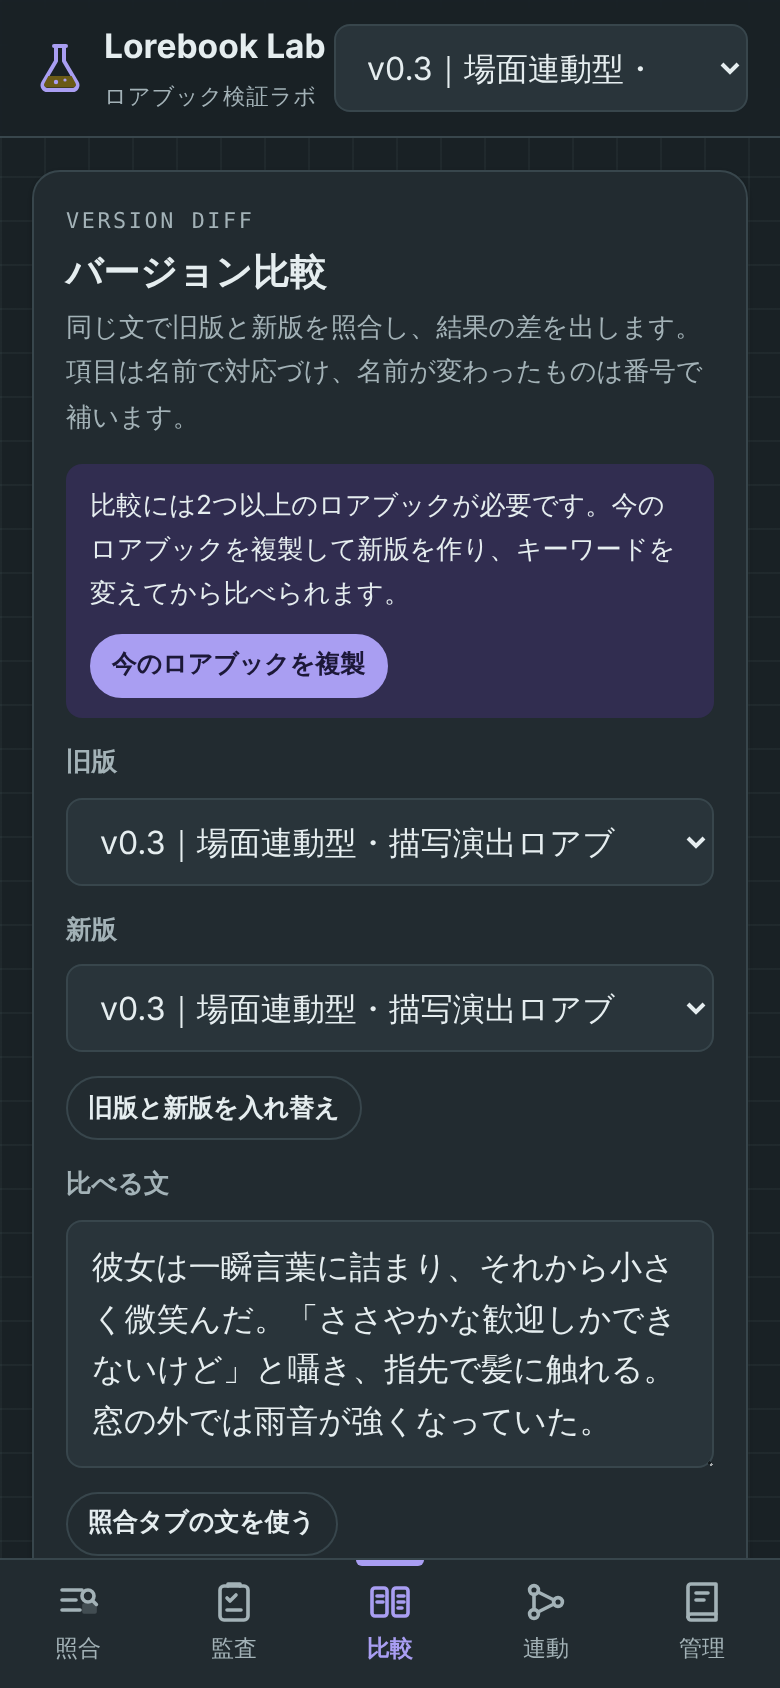
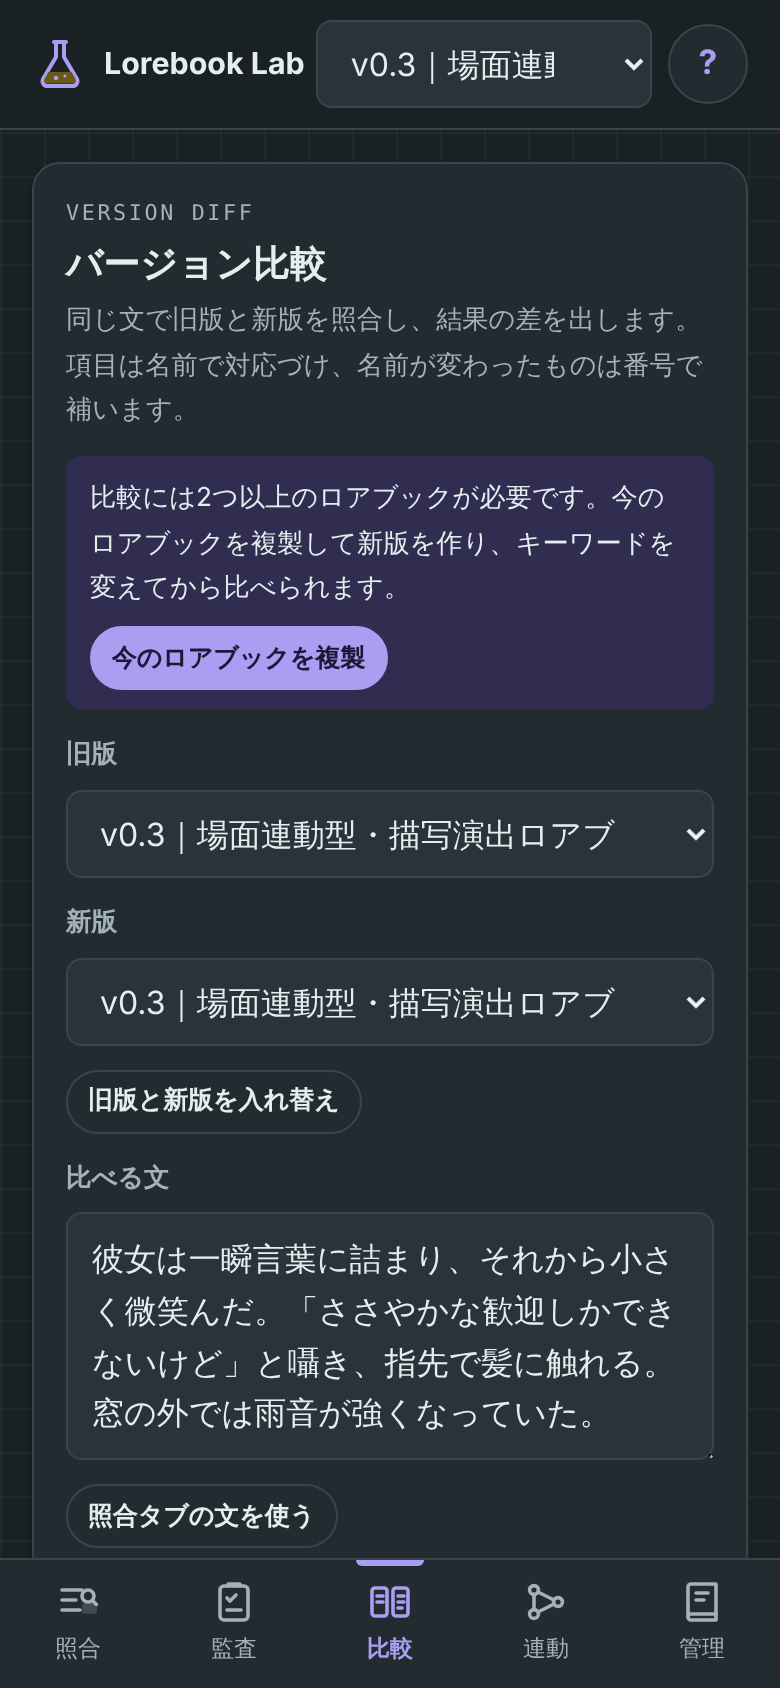
かんたん登録と使い方ガイドを追加
- 項目名・キーワード・本文を入れるだけで登録できるフォーム（新規ロアブック作成も可）
- 初回の「はじめに」案内と、右上「?」の使い方ガイド
- 狭い画面でヘッダーの名前が切れないよう調整

Claude-Session: https://claude.ai/code/session_01H5C1yxNcZhbhaamqsdtTMU

diff --git a/js/app.js b/js/app.js
@@ -36,7 +36,8 @@
       tab: 'sim',
       auditView: 'cases',
       recordFilter: 'all',
-      editingId: null
+      editingId: null,
+      guideSeen: false
     };
   }
 
@@ -293,14 +294,14 @@
 
   function noLorebookPanel() {
     return '<section class="panel"><h2>ロアブックがありません</h2>' +
-      '<p class="hint">管理タブで Markdown か JSON を読み込むか、サンプル（描写演出ロアブック v0.3）を入れてください。</p>' +
-      '<div class="row"><button class="btn primary" data-action="add-sample">サンプルを読み込む</button><button class="btn" data-action="goto-manage">管理タブへ</button></div></section>';
+      '<p class="hint">項目名・キーワード・本文を入れるだけで作れます。Markdown を読み込むこともできます（管理タブ）。</p>' +
+      '<div class="row"><button class="btn primary" data-action="quick-add">項目をかんたん登録</button><button class="btn" data-action="add-sample">サンプルを読み込む</button></div></section>';
   }
 
   /* ================= 照合 ================= */
 
   function viewSim() {
-    view.innerHTML =
+    view.innerHTML = welcomePanel() +
       '<section class="panel">' +
         '<div class="panel-head"><span class="eyebrow">String match</span><h2>文字列一致シミュレーター</h2>' +
         '<p class="hint">登録キーワードとの部分一致だけで判定します。ひらがな・カタカナ、全角・半角、大文字・小文字は変換せず、活用形も補いません。表示されるのは実機の発火状態ではなく「発火候補」です。</p></div>' +
@@ -309,6 +310,7 @@
           '<label class="field"><span class="field-label"><span class="pill ai">AI生成文</span></span><textarea id="sim-ai" placeholder="AIの生成文を貼り付け"></textarea></label>' +
         '</div>' +
         '<div class="row"><button class="btn small" id="sim-sample" type="button">例文を入れる</button><button class="btn small" id="sim-clear" type="button">入力を消す</button>' +
+        '<button class="btn small" type="button" data-action="quick-add">＋項目を登録</button>' +
         '<span class="spacer"></span><button class="btn small" id="sim-missed" type="button">拾い漏れを記録</button></div>' +
       '</section>' +
       '<div id="sim-out" class="list"></div>';
@@ -1033,7 +1035,9 @@
     if (state.editingId && lbById(state.editingId)) return viewEditor(lbById(state.editingId));
     state.editingId = null;
     var cur = activeLb();
-    var html = '<section class="panel"><div class="panel-head"><span class="eyebrow">Lorebooks</span><h2>ロアブック</h2></div><div class="list">';
+    var html = '<section class="panel"><div class="panel-head"><span class="eyebrow">Lorebooks</span><h2>ロアブック</h2>' +
+      '<p class="hint">項目名・キーワード・本文を入れるだけで、新しいロアブックや項目を作れます。</p></div>' +
+      '<div class="row"><button class="btn primary" type="button" data-action="quick-add">＋かんたん登録</button></div><div class="list">';
     if (!state.lorebooks.length) html += '<p class="empty">まだありません。下から読み込むか、サンプルを入れてください。</p>';
     state.lorebooks.forEach(function (l) {
       var warns = P.validate(l.entries);
@@ -1320,6 +1324,141 @@
 
   function cssEsc(s) { return (window.CSS && CSS.escape) ? CSS.escape(s) : String(s).replace(/["\\]/g, '\\$&'); }
 
+  /* ================= かんたん登録 ================= */
+
+  /** 「、」・カンマ・空白で区切ってキーワードにする */
+  function splitQuick(raw) {
+    var seen = [];
+    String(raw || '').split(/[、,，;；\/／|｜\s　]+/).forEach(function (k) {
+      k = k.replace(/^[「『"'“]+|[」』"'”]+$/g, '').trim();
+      if (k && seen.indexOf(k) === -1) seen.push(k);
+    });
+    return seen;
+  }
+
+  function quickAddSheet(preferId) {
+    var cur = preferId ? lbById(preferId) : activeLb();
+    var opts = '<option value="__new">新しいロアブックを作る</option>' + state.lorebooks.map(function (l) {
+      return '<option value="' + esc(l.id) + '"' + (cur && cur.id === l.id ? ' selected' : '') + '>' + esc(lbOption(l)) + ' に追加</option>';
+    }).join('');
+    var s = sheet({
+      title: '項目をかんたん登録',
+      html:
+        '<label class="field"><span class="field-label">登録先</span><select id="qa-target">' + opts + '</select></label>' +
+        '<div class="grid-2" id="qa-new"><label class="field"><span class="field-label">ロアブック名</span><input type="text" id="qa-name" placeholder="例：テスト"></label>' +
+          '<label class="field"><span class="field-label">バージョン</span><input type="text" id="qa-ver" placeholder="例：v0.1"></label></div>' +
+        '<label class="field"><span class="field-label">項目名</span><input type="text" id="qa-title" placeholder="例：光る体"></label>' +
+        '<label class="field"><span class="field-label">キーワード（「、」かスペースで区切る・最大5個）</span><input type="text" id="qa-kw" placeholder="例：足、手、頭"></label>' +
+        '<div class="chips" id="qa-kw-preview"></div>' +
+        '<label class="field"><span class="field-label">本文（任意）</span><textarea id="qa-body" placeholder="例：光る"></textarea></label>',
+      actions: [
+        { label: '閉じる' },
+        { label: '登録して続ける', onClick: function (c, root) { return submitQuick(root, false); } },
+        { label: '登録して照合へ', cls: 'primary', onClick: function (c, root) { return submitQuick(root, true); } }
+      ]
+    });
+    var root = s.el;
+    function syncTarget() { $('#qa-new', root).hidden = $('#qa-target', root).value !== '__new'; }
+    function preview() {
+      var kws = splitQuick($('#qa-kw', root).value);
+      $('#qa-kw-preview', root).innerHTML = kws.map(function (k, i) {
+        return '<span class="chip ' + (i < M.MAX_KEYWORDS ? 'kw' : 'off') + '">' + esc(k) + (Array.from(k).length === 1 ? '<span class="n">1文字</span>' : '') + '</span>';
+      }).join('') + (kws.length > M.MAX_KEYWORDS ? '<span class="pill fp">6個目以降は照合されません</span>' : '');
+    }
+    if (!state.lorebooks.length) $('#qa-target', root).value = '__new';
+    $('#qa-name', root).value = 'テスト';
+    $('#qa-ver', root).value = 'v0.1';
+    syncTarget();
+    $('#qa-target', root).addEventListener('change', syncTarget);
+    $('#qa-kw', root).addEventListener('input', preview);
+    $('#qa-title', root).focus({ preventScroll: true });
+  }
+
+  function submitQuick(root, goSim) {
+    var title = $('#qa-title', root).value.trim();
+    var kws = splitQuick($('#qa-kw', root).value);
+    if (!title) { toast('項目名を入れてください'); return false; }
+    if (!kws.length) { toast('キーワードを1つ以上入れてください'); return false; }
+    var target = $('#qa-target', root).value;
+    var lb;
+    if (target === '__new') {
+      var now = new Date().toISOString();
+      lb = { id: P.uid('lb'), name: $('#qa-name', root).value.trim() || '新しいロアブック', version: $('#qa-ver', root).value.trim(), notes: '', entries: [], createdAt: now, updatedAt: now };
+      state.lorebooks.push(lb);
+    } else {
+      lb = lbById(target);
+    }
+    var last = lb.entries[lb.entries.length - 1];
+    var no = last && /^\d+$/.test(last.no) ? String(+last.no + 1).padStart(last.no.length, '0') : (lb.entries.length ? '' : '01');
+    lb.entries.push({ id: P.uid('e'), no: no, title: title, category: '', keywords: kws, body: $('#qa-body', root).value.trim() });
+    lb.updatedAt = new Date().toISOString();
+    state.activeId = lb.id;
+    save();
+    toast('「' + title + '」を登録しました');
+    if (goSim) { setTab('sim'); return true; }
+    // 続けて入力：登録先を今のロアブックにして入力欄を空にする
+    var sel = $('#qa-target', root);
+    if (!sel.querySelector('option[value="' + cssEsc(lb.id) + '"]')) {
+      var o = document.createElement('option'); o.value = lb.id; o.textContent = lbOption(lb) + ' に追加'; sel.appendChild(o);
+    }
+    sel.value = lb.id;
+    $('#qa-new', root).hidden = true;
+    ['#qa-title', '#qa-kw', '#qa-body'].forEach(function (id) { $(id, root).value = ''; });
+    $('#qa-kw-preview', root).innerHTML = '';
+    $('#qa-title', root).focus({ preventScroll: true });
+    renderView();
+    return false;
+  }
+
+  /* ================= 使い方 ================= */
+
+  function welcomePanel() {
+    if (state.guideSeen) return '';
+    return '<section class="panel" style="background:var(--accent-soft);border-color:transparent">' +
+      '<h2>はじめに</h2>' +
+      '<p>ロアブックのキーワードが、会話文のどこに一致するかを確かめる道具です。Zetaに登録する前の下書きでも使えます。</p>' +
+      '<ol class="steps"><li><b>項目を登録</b>：項目名・キーワード・本文を入れる</li><li><b>文章を貼る</b>：この画面に会話文を入れると、一致した所が黄色になる</li><li><b>弱点を見る</b>：監査タブの「設計点検」で誤発火しやすい語を確認</li></ol>' +
+      '<div class="row"><button class="btn small primary" type="button" data-action="quick-add">項目を登録する</button><button class="btn small" type="button" data-action="open-guide">使い方をくわしく</button>' +
+      '<span class="spacer"></span><button class="btn small ghost" type="button" data-action="dismiss-welcome">閉じる</button></div></section>';
+  }
+
+  function guideSheet() {
+    var g = [
+      ['このツールでできること',
+        '<p>登録したキーワードが、文章のどこに<b>文字列として</b>一致するかを調べます。Zetaもロアブックの登録も不要で、下書きの段階から使えます。</p>' +
+        '<p class="hint">分かるのは「どの項目が呼ばれそうか（発火候補）」までです。呼ばれたあとAIが本文どおりに描写するかは、Zetaの実機で試す必要があります。</p>'],
+      ['1. 項目を登録する',
+        '<p>照合タブか管理タブの「<b>＋項目を登録</b>」から、項目名・キーワード・本文を入れます。キーワードは「、」かスペースで区切ります（最大5個）。</p>' +
+        '<p>AIが作ったロアブックは、管理タブの「貼り付け」に Markdown をそのまま貼れば、まとめて読み込めます。</p>'],
+      ['2. 照合：文章を貼って確かめる',
+        '<p>「ユーザー発言」「AI生成文」の欄に文章を貼ると、一致した箇所が<span style="background:var(--mark)">黄色</span>になります。黄色をタップすると、どの項目のどのキーワードかが分かります。</p>' +
+        '<p>試す文章は、自分で書いた数行、過去の会話ログ、AIに書かせたテスト会話のどれでも構いません。</p>' +
+        '<p>一致箇所の「適切／不適切」を押すと、判断が記録に残ります。</p>'],
+      ['3. 監査：弱点を見つける',
+        '<p><b>設計点検</b>：文章なしで、キーワードそのものを点検します。1文字のキーワードや、日常語に紛れ込む語（例：手→上手・手紙）が一覧になります。下の語彙リストに語を足すと、点検の範囲が広がります。</p>' +
+        '<p><b>監査ケース</b>：「この文では一致してほしい／ほしくない」を登録しておくと、外れたものが<span class="pill fp">誤発火候補</span><span class="pill miss">拾い漏れ</span>として出ます。</p>' +
+        '<p><b>手動の記録</b>：照合タブで押した判断の一覧です。</p>'],
+      ['4. 比較：直す前と後を比べる',
+        '<p>管理タブで「複製」して新版を作り、キーワードを直してから、比較タブで同じ文を照合します。直したことで拾えなくなった項目も分かります。</p>'],
+      ['5. 連動：ターンの流れを見る',
+        '<p>会話を1ターンずつ入れると、各AI生成に影響しうる項目を時系列で並べます。一致した項目は次のAI生成1回に効く、という前提で表示します。</p>'],
+      ['ことば',
+        '<p><b>発火候補</b>：キーワードが文字列として一致した項目</p>' +
+        '<p><b>誤発火</b>：一致したが、場面としては呼ばれてほしくない（例：斬→斬新）</p>' +
+        '<p><b>拾い漏れ</b>：呼ばれてほしいのに一致しない（例：「目が合」では「目を合わせ」を拾えない）</p>' +
+        '<p><b>表記ゆれ</b>：ひらがな・カタカナ・全角半角の違い。実機では変換されないので、別の語として扱います</p>'],
+      ['データについて',
+        '<p>入力した内容は、このブラウザの中だけに保存されます。外部へは送信しません。スマホとPCでは別々に保存されるので、移すときは管理タブの「すべて書き出す」を使ってください。</p>']
+    ];
+    sheet({
+      title: '使い方',
+      focus: false,
+      html: g.map(function (x, i) {
+        return '<details class="fold"' + (i < 2 ? ' open' : '') + '><summary>' + esc(x[0]) + '</summary><div class="fold-body guide">' + x[1] + '</div></details>';
+      }).join('')
+    });
+  }
+
   /* ================= 起動 ================= */
 
   function addSample() {
@@ -1342,6 +1481,9 @@
       if (a.dataset.action === 'add-sample') addSample();
       if (a.dataset.action === 'goto-manage') setTab('manage');
       if (a.dataset.action === 'dup-active') { duplicateLb(activeLb()); renderView(); }
+      if (a.dataset.action === 'quick-add') quickAddSheet();
+      if (a.dataset.action === 'open-guide') guideSheet();
+      if (a.dataset.action === 'dismiss-welcome') { state.guideSeen = true; save(); var w = a.closest('.panel'); if (w) w.remove(); }
     });
     view.addEventListener('click', function (e) {
       if (state.tab === 'sim') onSimClick(e);

diff --git a/css/style.css b/css/style.css
@@ -107,7 +107,22 @@ p { margin: 0; }
 .brand-name { font-family: var(--font-display); font-weight: 700; font-size: 1.05rem; white-space: nowrap; }
 .brand-sub { font-size: 0.7rem; color: var(--ink-soft); letter-spacing: 0.04em; white-space: nowrap; }
 .lb-picker { margin-left: auto; min-width: 0; flex: 0 1 220px; }
+@media (max-width: 440px) {
+  .app-header-inner { gap: 8px; }
+  .brand-sub { display: none; }
+  .brand-name { font-size: 0.95rem; }
+  .lb-picker { flex-basis: 170px; }
+}
 .lb-picker select { width: 100%; }
+.help-btn {
+  flex: none; width: 40px; height: 40px; border-radius: 50%;
+  border: 1px solid var(--line); background: var(--surface);
+  font-family: var(--font-display); font-weight: 700; font-size: 1.05rem; color: var(--accent);
+  cursor: pointer;
+}
+.steps { margin: 0; padding-left: 1.4em; display: flex; flex-direction: column; gap: 4px; }
+.guide p { font-size: 0.9rem; }
+.guide .pill { margin-right: 4px; }
 
 main {
   max-width: 760px;

diff --git a/index.html b/index.html
@@ -28,6 +28,7 @@
       <span class="sr-only">使うロアブック</span>
       <select id="active-lb"></select>
     </label>
+    <button class="help-btn" type="button" data-action="open-guide" aria-label="使い方">?</button>
   </div>
 </header>
 

diff --git a/TEST_RESULTS.md b/TEST_RESULTS.md
@@ -1,6 +1,6 @@
 # テスト結果
 
-- 実行日時：2026-10-13 01:52（UTC）
+- 実行日時：2026-10-13 02:30（UTC）
 - Node.js：v22.22.0
 - 自動テスト：38件中 成功 38件・失敗 0件
 
